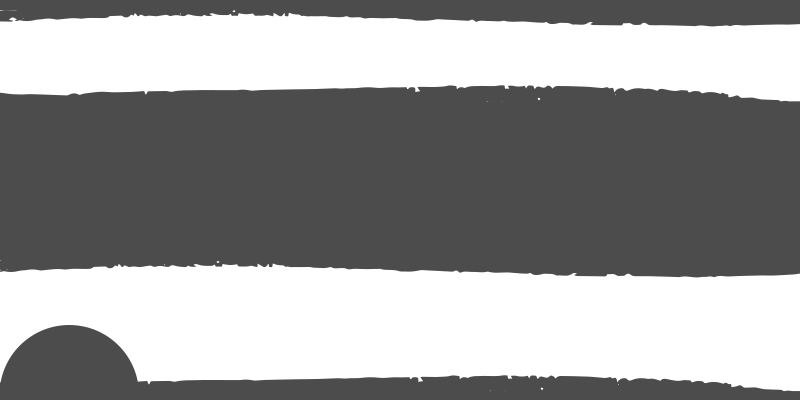
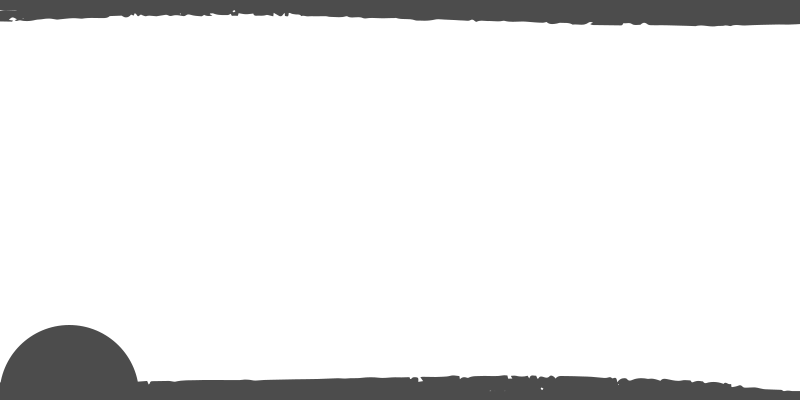
Background changes

diff --git a/css/styles.css b/css/styles.css
@@ -63,7 +63,7 @@ body.variant_c .card.variant_c {
   overflow: hidden;
 }
 .card.variant_a .background-base {
-  background: rgba(0, 0, 0, 0.3);
+  background: rgba(0, 0, 0, 0.2);
 }
 .card.variant_b .background-base {
   display: none;
@@ -90,33 +90,7 @@ body.variant_c .card.variant_c {
   z-index: 0;
 }
 .background-gradient {
-  position: absolute;
-  top: 0;
-  left: 0;
-  width: 100%;
-  height: 150px;
-  opacity: 0.7;
-  background: -moz-linear-gradient(top, #000000 0%, rgba(0, 0, 0, 0) 100%);
-  /* FF3.6+ */
-
-  background: -webkit-gradient(linear, left top, left bottom, color-stop(0%, #000000), color-stop(100%, rgba(0, 0, 0, 0)));
-  /* Chrome,Safari4+ */
-
-  background: -webkit-linear-gradient(top, #000000 0%, rgba(0, 0, 0, 0) 100%);
-  /* Chrome10+,Safari5.1+ */
-
-  background: -o-linear-gradient(top, #000000 0%, rgba(0, 0, 0, 0) 100%);
-  /* Opera 11.10+ */
-
-  background: -ms-linear-gradient(top, #000000 0%, rgba(0, 0, 0, 0) 100%);
-  /* IE10+ */
-
-  background: linear-gradient(to bottom, #000000 0%, rgba(0, 0, 0, 0) 100%);
-  /* W3C */
-
-  filter: progid:dximagetransform.microsoft.gradient(startColorstr='#000000', endColorstr='#00000000', GradientType=0);
-  /* IE6-9 */
-
+  display: none;
 }
 .light-border,
 .light-border-inner,

diff --git a/css/less/variant-a.less b/css/less/variant-a.less
@@ -2,19 +2,7 @@
 // ==========================================
 
 .background-gradient {
-  position: absolute;
-  top: 0;
-  left: 0;
-  width: 100%;
-  height: 150px;
-  opacity: 0.7;
-  background: -moz-linear-gradient(top,  rgba(0,0,0,1) 0%, rgba(0,0,0,0) 100%); /* FF3.6+ */
-  background: -webkit-gradient(linear, left top, left bottom, color-stop(0%,rgba(0,0,0,1)), color-stop(100%,rgba(0,0,0,0))); /* Chrome,Safari4+ */
-  background: -webkit-linear-gradient(top,  rgba(0,0,0,1) 0%,rgba(0,0,0,0) 100%); /* Chrome10+,Safari5.1+ */
-  background: -o-linear-gradient(top,  rgba(0,0,0,1) 0%,rgba(0,0,0,0) 100%); /* Opera 11.10+ */
-  background: -ms-linear-gradient(top,  rgba(0,0,0,1) 0%,rgba(0,0,0,0) 100%); /* IE10+ */
-  background: linear-gradient(to bottom,  rgba(0,0,0,1) 0%,rgba(0,0,0,0) 100%); /* W3C */
-  filter: progid:DXImageTransform.Microsoft.gradient( startColorstr='#000000', endColorstr='#00000000',GradientType=0 ); /* IE6-9 */
+  display: none;
 }
 
 .light-border,

diff --git a/css/less/base.less b/css/less/base.less
@@ -46,7 +46,7 @@ body {
 
   &.variant_a {
     .background-base {
-      background: rgba(0,0,0,0.3);
+      background: rgba(0,0,0,0.2);
     }
   }
   &.variant_b {
